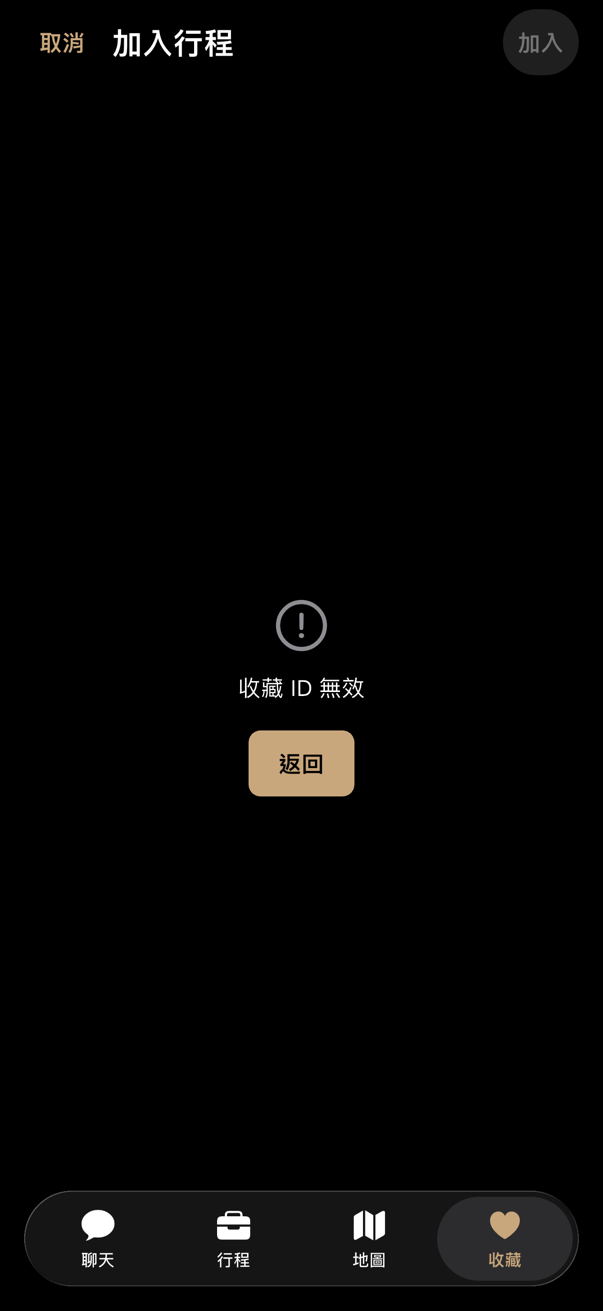
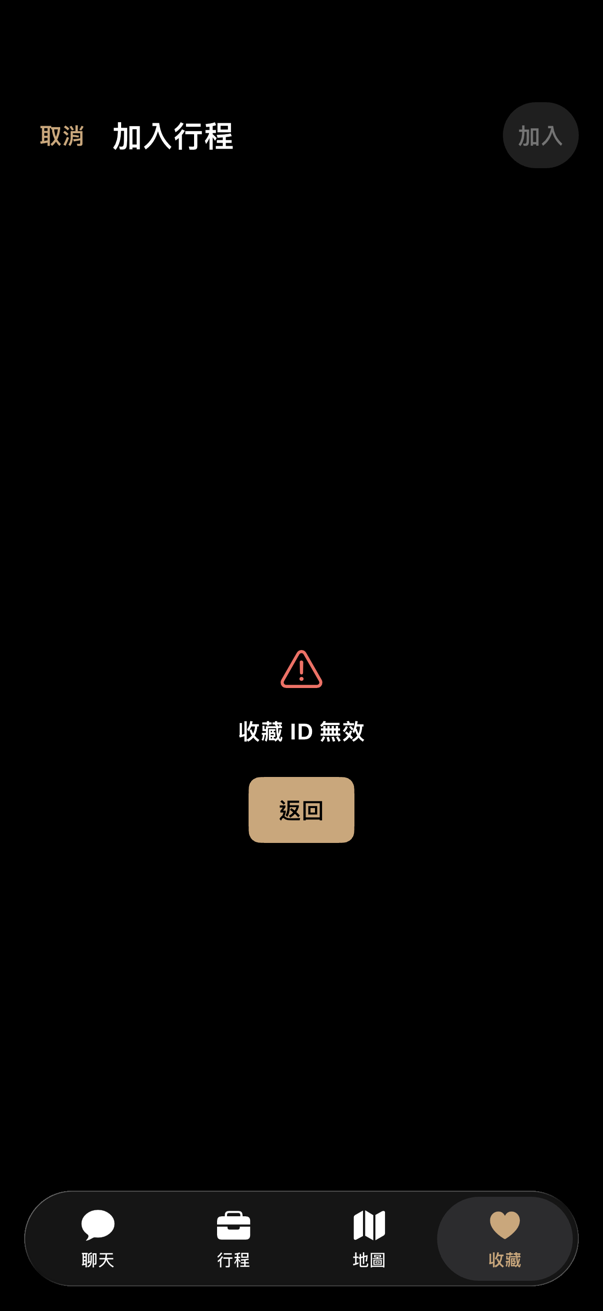
docs: 報告同步 A2 改用 TpStateView 的重拍結果

diff --git a/docs/qa/2026-11-04-hig-screenshot-review-app.md b/docs/qa/2026-11-04-hig-screenshot-review-app.md
@@ -65,8 +65,8 @@
 | `account-settings-notifications` | 淺深已看 | 未見明顯問題 | — | 目視未發現與檢查表衝突之處；僅看圖，未量字級與對比 |
 | `account-settings-profile` | 淺深已看 | 未見明顯問題 | — | 目視未發現與檢查表衝突之處；僅看圖，未量字級與對比 |
 | `add-to-trip-direct` | 淺深已看 | 未見明顯問題 | — | 目視未發現與檢查表衝突之處；僅看圖，未量字級與對比 |
-| `add-to-trip-invalid-favorite` | 淺深已看（重拍） | 符合 | G6、G7 | 重拍後有圖示、原因與「返回」鈕；底部分頁列仍顯示（屬 A4 待決定）（#544 A2 已修） |
-| `add-to-trip-missing-data` | 淺深已看（重拍） | 符合 | G6、G7 | 重拍後有圖示、原因與「返回」鈕；底部分頁列仍顯示（屬 A4 待決定）（#544 A2 已修） |
+| `add-to-trip-invalid-favorite` | 淺深已看（重拍） | 符合 | G6、G7 | 重拍後用專案的 TpStateView：警示圖示、原因與「返回」鈕；底部分頁列仍顯示（屬 A4 待決定）（#544 A2 已修） |
+| `add-to-trip-missing-data` | 淺深已看（重拍） | 符合 | G6、G7 | 重拍後用專案的 TpStateView：警示圖示、原因與「返回」鈕；底部分頁列仍顯示（屬 A4 待決定）（#544 A2 已修） |
 | `app-lock-enable-prompt` | 淺深已看 | 張力 | F7 | App 內詢問是否開啟 Face ID，與 F7 建議有張力（同上）；alert 結構符合 G2、G3 |
 | `app-lock-locked-ax-2x` | 淺深已看 | 未見明顯問題 | — | 目視未發現與檢查表衝突之處；僅看圖，未量字級與對比 |
 | `app-lock-locked` | 淺深已看 | 未見明顯問題 | — | 目視未發現與檢查表衝突之處；僅看圖，未量字級與對比 |
